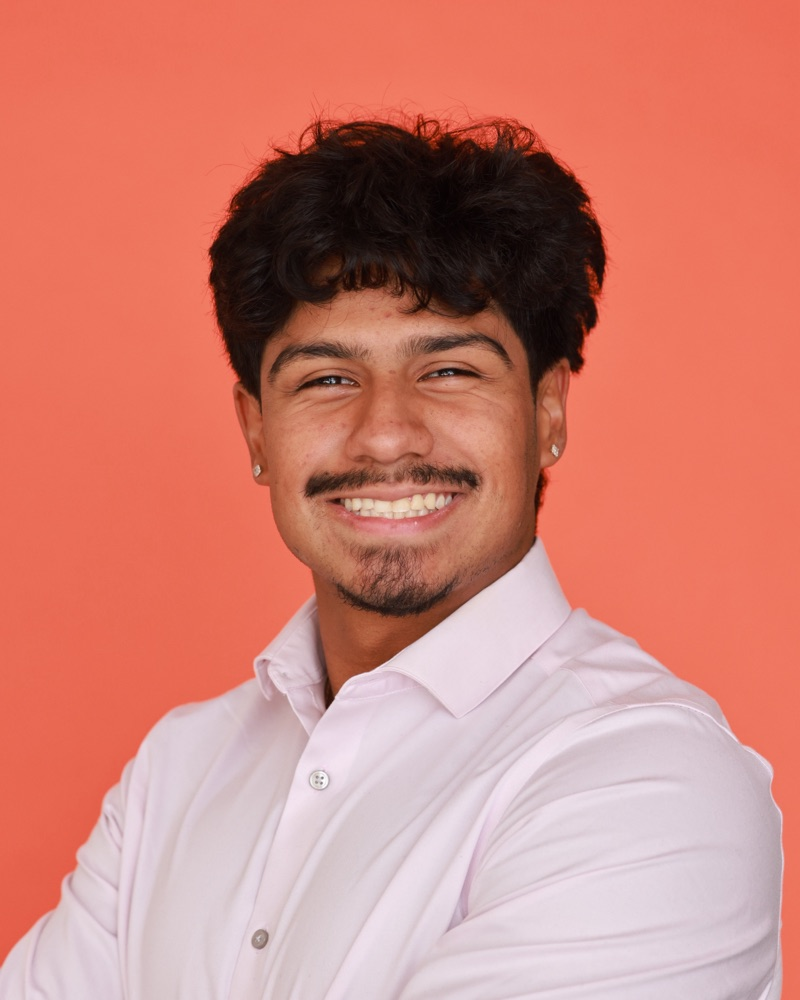
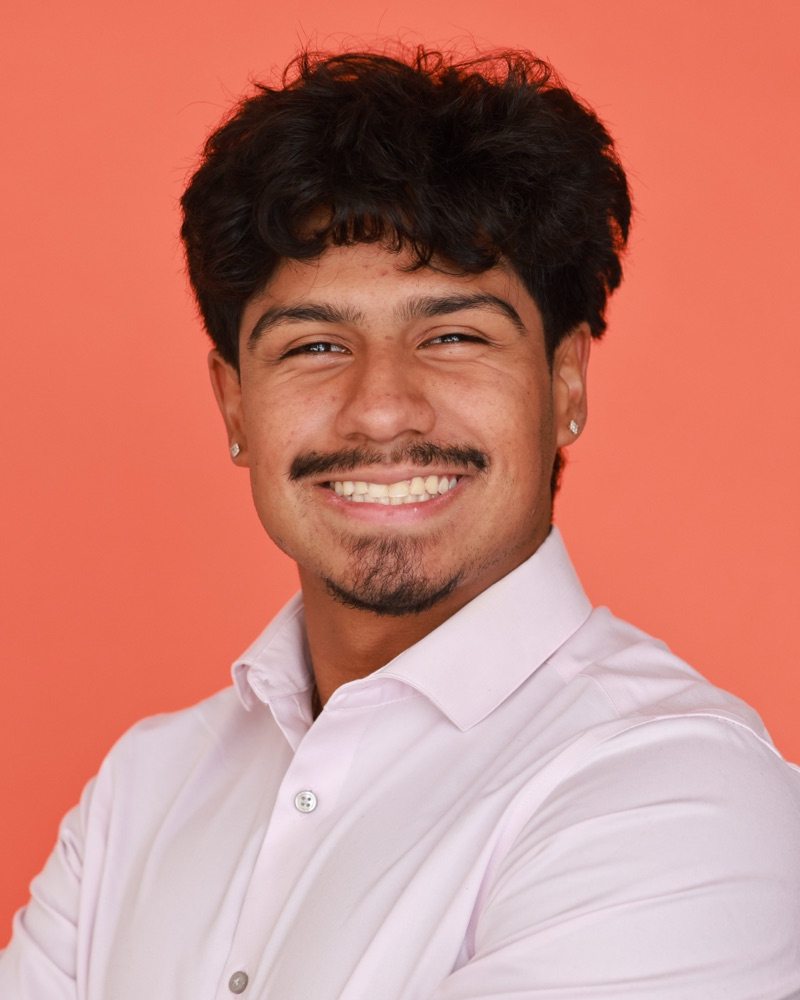
Tighten David Ponce's headshot crop to match adjacent founder cards

diff --git a/client/src/data/community.js b/client/src/data/community.js
@@ -88,7 +88,7 @@ export const ceremony = {
     {
       role: 'Founding President', name: 'David Ponce', title: 'Founding President',
       src: eoyFoundersAddress, alt: 'David Ponce speaking at a Binghamton University podium beside a Founders Address slide, with guests seated in the foreground', placeholder: 'Photo coming soon',
-      headshot: { src: davidHeadshot, alt: 'Headshot of David Ponce in a white shirt against a coral backdrop', position: '50% 25%' },
+      headshot: { src: davidHeadshot, alt: 'Headshot of David Ponce in a white shirt against a coral backdrop', position: '50% 10%' },
       achievements: [
         { text: 'Technology consulting at Brightshore Capital', current: true, company: 'Brightshore Capital', logoSrc: brightshoreLogo, logoTone: 'light' },
         { text: "Pursuing a Master's in Computer Science at NYU Tandon School of Engineering", current: true, company: 'NYU Tandon School of Engineering', chipLabel: 'NYU Tandon' },
